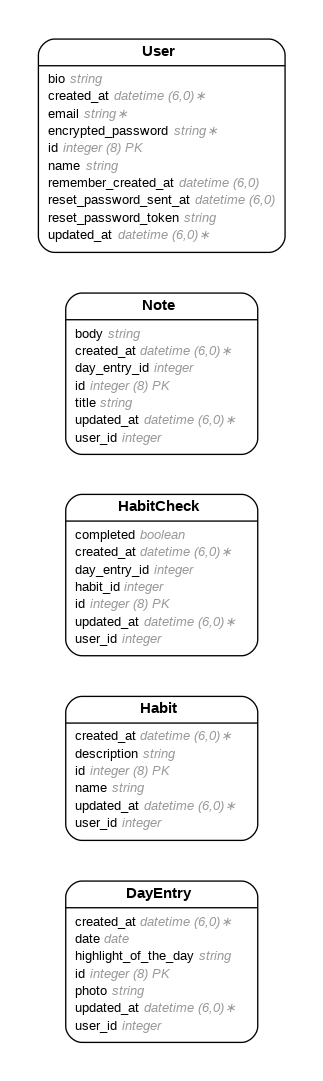
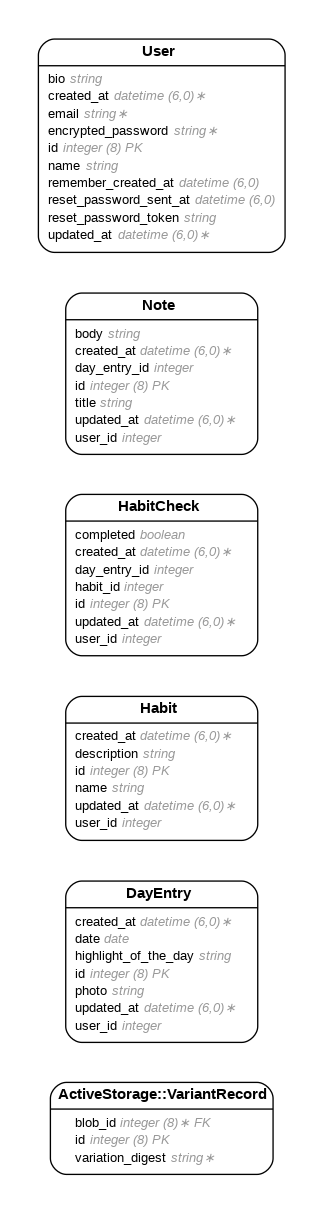
something is magically working

Changed region(s): [[0.0929, 0.0305, 0.8978, 0.9769]]

diff --git a/app/controllers/day_entries_controller.rb b/app/controllers/day_entries_controller.rb
@@ -1,18 +1,19 @@
 class DayEntriesController < ApplicationController
- def index
+def index
   matching_day_entries = DayEntry.all
+
   @list_of_day_entries = matching_day_entries.order({ :created_at => :desc })
 
   respond_to do |format|
     format.html { render({ :template => "day_entry_templates/index" }) }
 
     format.json do
-      render :json => DayEntry.where.not({ :date => nil }).map { |e|
+      render :json => matching_day_entries.map { |e|
         {
           :id => e.id,
-          :title => (e.highlight_of_the_day.presence || "Day entry"),
+          :title => e.highlight_of_the_day,
           :start => e.date,
-          :allDay => true
+          :extendedProps => { :photo => e.photo }
         }
       }
     end
@@ -30,36 +31,41 @@ end
   end
 
   def create
-    the_day_entry = DayEntry.new
-    the_day_entry.user_id = params.fetch("query_user_id")
-    the_day_entry.date = params.fetch("query_date")
-    the_day_entry.highlight_of_the_day = params.fetch("query_highlight_of_the_day")
-    the_day_entry.photo = params.fetch("query_photo")
+  the_day_entry = DayEntry.new
+  the_day_entry.user_id = params.fetch("query_user_id")
+  the_day_entry.date = params.fetch("query_date")
+  the_day_entry.highlight_of_the_day = params.fetch("query_highlight_of_the_day")
 
-    if the_day_entry.valid?
-      the_day_entry.save
-      redirect_to("/day_entries", { :notice => "Day entry created successfully." })
-    else
-      redirect_to("/day_entries", { :alert => the_day_entry.errors.full_messages.to_sentence })
-    end
+  if params["query_photo"].present?
+    the_day_entry.photo.attach(params["query_photo"])
   end
 
-  def update
-    the_id = params.fetch("path_id")
-    the_day_entry = DayEntry.where({ :id => the_id }).at(0)
-
-    the_day_entry.user_id = params.fetch("query_user_id")
-    the_day_entry.date = params.fetch("query_date")
-    the_day_entry.highlight_of_the_day = params.fetch("query_highlight_of_the_day")
-    the_day_entry.photo = params.fetch("query_photo")
-
-    if the_day_entry.valid?
-      the_day_entry.save
-      redirect_to("/day_entries/#{the_day_entry.id}", { :notice => "Day entry updated successfully." } )
-    else
-      redirect_to("/day_entries/#{the_day_entry.id}", { :alert => the_day_entry.errors.full_messages.to_sentence })
-    end
+  if the_day_entry.valid?
+    the_day_entry.save
+    redirect_to("/day_entries", { :notice => "Day entry created successfully." })
+  else
+    redirect_to("/day_entries", { :alert => the_day_entry.errors.full_messages.to_sentence })
   end
+end
+
+ def update
+  the_id = params.fetch("path_id")
+  the_day_entry = DayEntry.where({ :id => the_id }).at(0)
+
+  the_day_entry.date = params.fetch("query_date")
+  the_day_entry.highlight_of_the_day = params.fetch("query_highlight_of_the_day")
+
+  if params["query_photo"].present?
+    the_day_entry.photo.attach(params["query_photo"])
+  end
+
+  if the_day_entry.valid?
+    the_day_entry.save
+    redirect_to("/day_entries/#{the_day_entry.id}", { :notice => "Day entry updated successfully." })
+  else
+    redirect_to("/day_entries/#{the_day_entry.id}", { :alert => the_day_entry.errors.full_messages.to_sentence })
+  end
+end
 
   def destroy
     the_id = params.fetch("path_id")

diff --git a/db/schema.rb b/db/schema.rb
@@ -10,9 +10,37 @@
 #
 # It's strongly recommended that you check this file into your version control system.
 
-ActiveRecord::Schema[8.0].define(version: 2026_03_03_175523) do
+ActiveRecord::Schema[8.0].define(version: 2026_03_04_023012) do
   # These are extensions that must be enabled in order to support this database
   enable_extension "pg_catalog.plpgsql"
+
+  create_table "active_storage_attachments", force: :cascade do |t|
+    t.string "name", null: false
+    t.string "record_type", null: false
+    t.bigint "record_id", null: false
+    t.bigint "blob_id", null: false
+    t.datetime "created_at", null: false
+    t.index ["blob_id"], name: "index_active_storage_attachments_on_blob_id"
+    t.index ["record_type", "record_id", "name", "blob_id"], name: "index_active_storage_attachments_uniqueness", unique: true
+  end
+
+  create_table "active_storage_blobs", force: :cascade do |t|
+    t.string "key", null: false
+    t.string "filename", null: false
+    t.string "content_type"
+    t.text "metadata"
+    t.string "service_name", null: false
+    t.bigint "byte_size", null: false
+    t.string "checksum"
+    t.datetime "created_at", null: false
+    t.index ["key"], name: "index_active_storage_blobs_on_key", unique: true
+  end
+
+  create_table "active_storage_variant_records", force: :cascade do |t|
+    t.bigint "blob_id", null: false
+    t.string "variation_digest", null: false
+    t.index ["blob_id", "variation_digest"], name: "index_active_storage_variant_records_uniqueness", unique: true
+  end
 
   create_table "day_entries", force: :cascade do |t|
     t.integer "user_id"
@@ -205,6 +233,8 @@ ActiveRecord::Schema[8.0].define(version: 2026_03_03_175523) do
     t.index ["reset_password_token"], name: "index_users_on_reset_password_token", unique: true
   end
 
+  add_foreign_key "active_storage_attachments", "active_storage_blobs", column: "blob_id"
+  add_foreign_key "active_storage_variant_records", "active_storage_blobs", column: "blob_id"
   add_foreign_key "solid_queue_blocked_executions", "solid_queue_jobs", column: "job_id", on_delete: :cascade
   add_foreign_key "solid_queue_claimed_executions", "solid_queue_jobs", column: "job_id", on_delete: :cascade
   add_foreign_key "solid_queue_failed_executions", "solid_queue_jobs", column: "job_id", on_delete: :cascade

diff --git a/db/migrate/20260304023012_create_active_storage_tables.active_storage.rb b/db/migrate/20260304023012_create_active_storage_tables.active_storage.rb
@@ -1,0 +1,57 @@
+# This migration comes from active_storage (originally 20170806125915)
+class CreateActiveStorageTables < ActiveRecord::Migration[7.0]
+  def change
+    # Use Active Record's configured type for primary and foreign keys
+    primary_key_type, foreign_key_type = primary_and_foreign_key_types
+
+    create_table :active_storage_blobs, id: primary_key_type do |t|
+      t.string   :key,          null: false
+      t.string   :filename,     null: false
+      t.string   :content_type
+      t.text     :metadata
+      t.string   :service_name, null: false
+      t.bigint   :byte_size,    null: false
+      t.string   :checksum
+
+      if connection.supports_datetime_with_precision?
+        t.datetime :created_at, precision: 6, null: false
+      else
+        t.datetime :created_at, null: false
+      end
+
+      t.index [ :key ], unique: true
+    end
+
+    create_table :active_storage_attachments, id: primary_key_type do |t|
+      t.string     :name,     null: false
+      t.references :record,   null: false, polymorphic: true, index: false, type: foreign_key_type
+      t.references :blob,     null: false, type: foreign_key_type
+
+      if connection.supports_datetime_with_precision?
+        t.datetime :created_at, precision: 6, null: false
+      else
+        t.datetime :created_at, null: false
+      end
+
+      t.index [ :record_type, :record_id, :name, :blob_id ], name: :index_active_storage_attachments_uniqueness, unique: true
+      t.foreign_key :active_storage_blobs, column: :blob_id
+    end
+
+    create_table :active_storage_variant_records, id: primary_key_type do |t|
+      t.belongs_to :blob, null: false, index: false, type: foreign_key_type
+      t.string :variation_digest, null: false
+
+      t.index [ :blob_id, :variation_digest ], name: :index_active_storage_variant_records_uniqueness, unique: true
+      t.foreign_key :active_storage_blobs, column: :blob_id
+    end
+  end
+
+  private
+    def primary_and_foreign_key_types
+      config = Rails.configuration.generators
+      setting = config.options[config.orm][:primary_key_type]
+      primary_key_type = setting || :primary_key
+      foreign_key_type = setting || :bigint
+      [ primary_key_type, foreign_key_type ]
+    end
+end

diff --git a/app/controllers/calendar_controller.rb b/app/controllers/calendar_controller.rb
@@ -9,7 +9,7 @@ class CalendarController < ApplicationController
         start_param = params["start"]
         end_param   = params["end"]
 
-        scoped = DayEntry.all
+        scoped = DayEntry.where.not({ :date => nil })
 
         if start_param.present? && end_param.present?
           start_date = Date.parse(start_param)
@@ -22,7 +22,10 @@ class CalendarController < ApplicationController
             :id => e.id,
             :title => (e.highlight_of_the_day.presence || "Day entry"),
             :start => e.date,
-            :allDay => true
+            :allDay => true,
+            :extendedProps => {
+              :photo => (e.photo.attached? ? url_for(e.photo) : nil)
+            }
           }
         }
       end

diff --git a/config/routes.rb b/config/routes.rb
@@ -1,6 +1,7 @@
 Rails.application.routes.draw do
 
   get("/", { :controller => "calendar", :action => "index"})
+  get("/calendar", { :controller => "calendar", :action => "index"})
 
   # Routes for the Day entry resource:
 

diff --git a/app/models/day_entry.rb b/app/models/day_entry.rb
@@ -11,4 +11,5 @@
 #  user_id              :integer
 #
 class DayEntry < ApplicationRecord
+  has_one_attached :photo
 end
